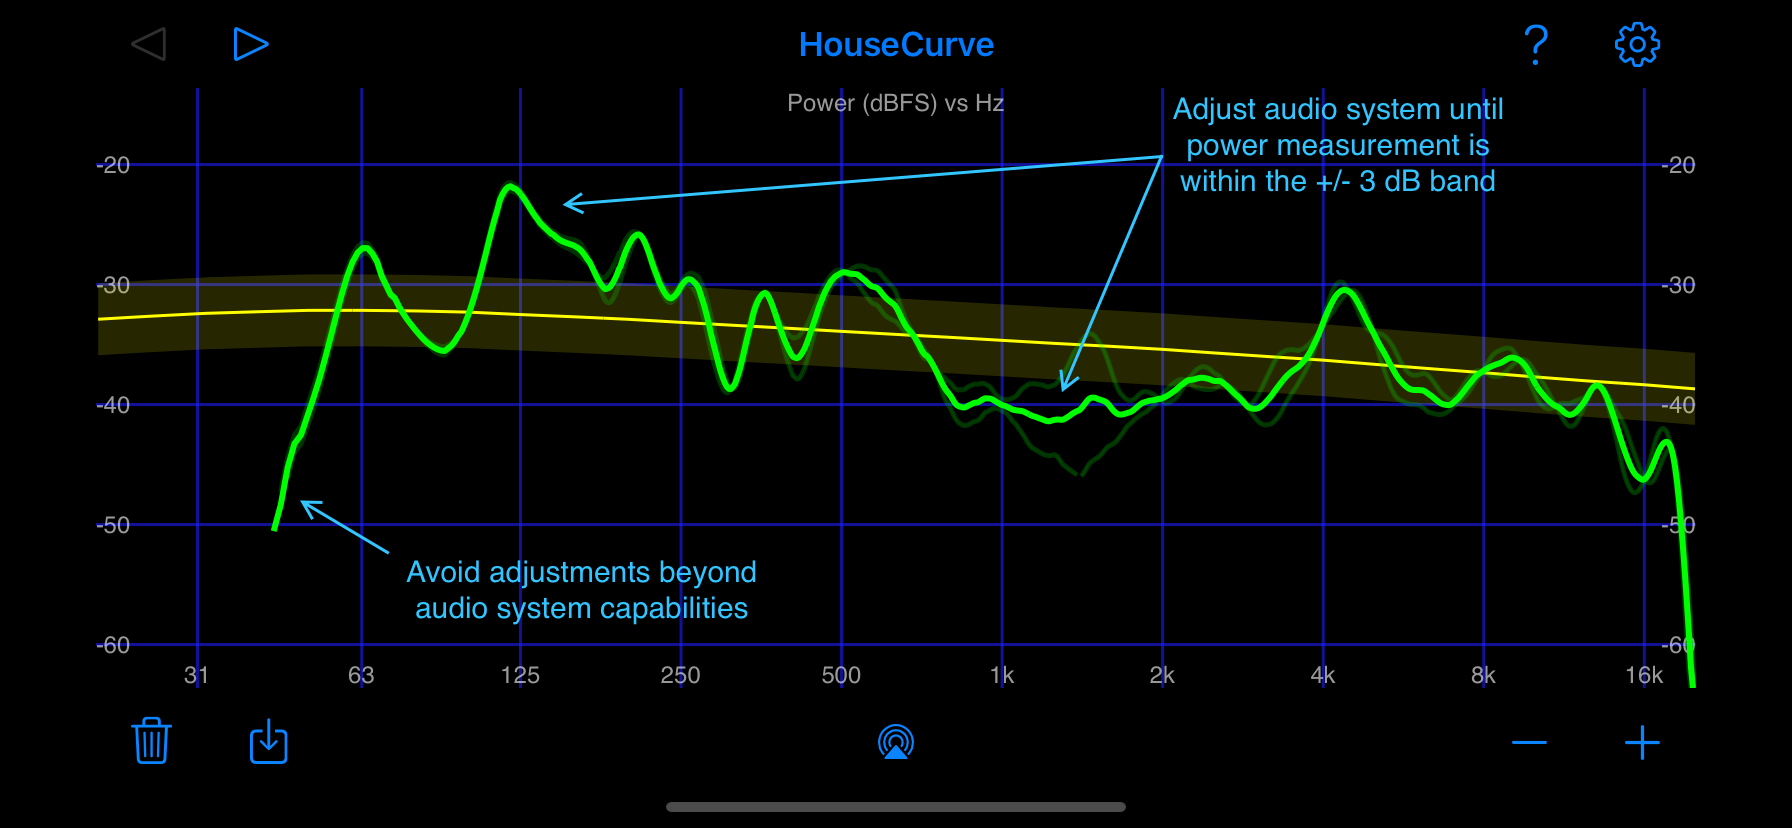
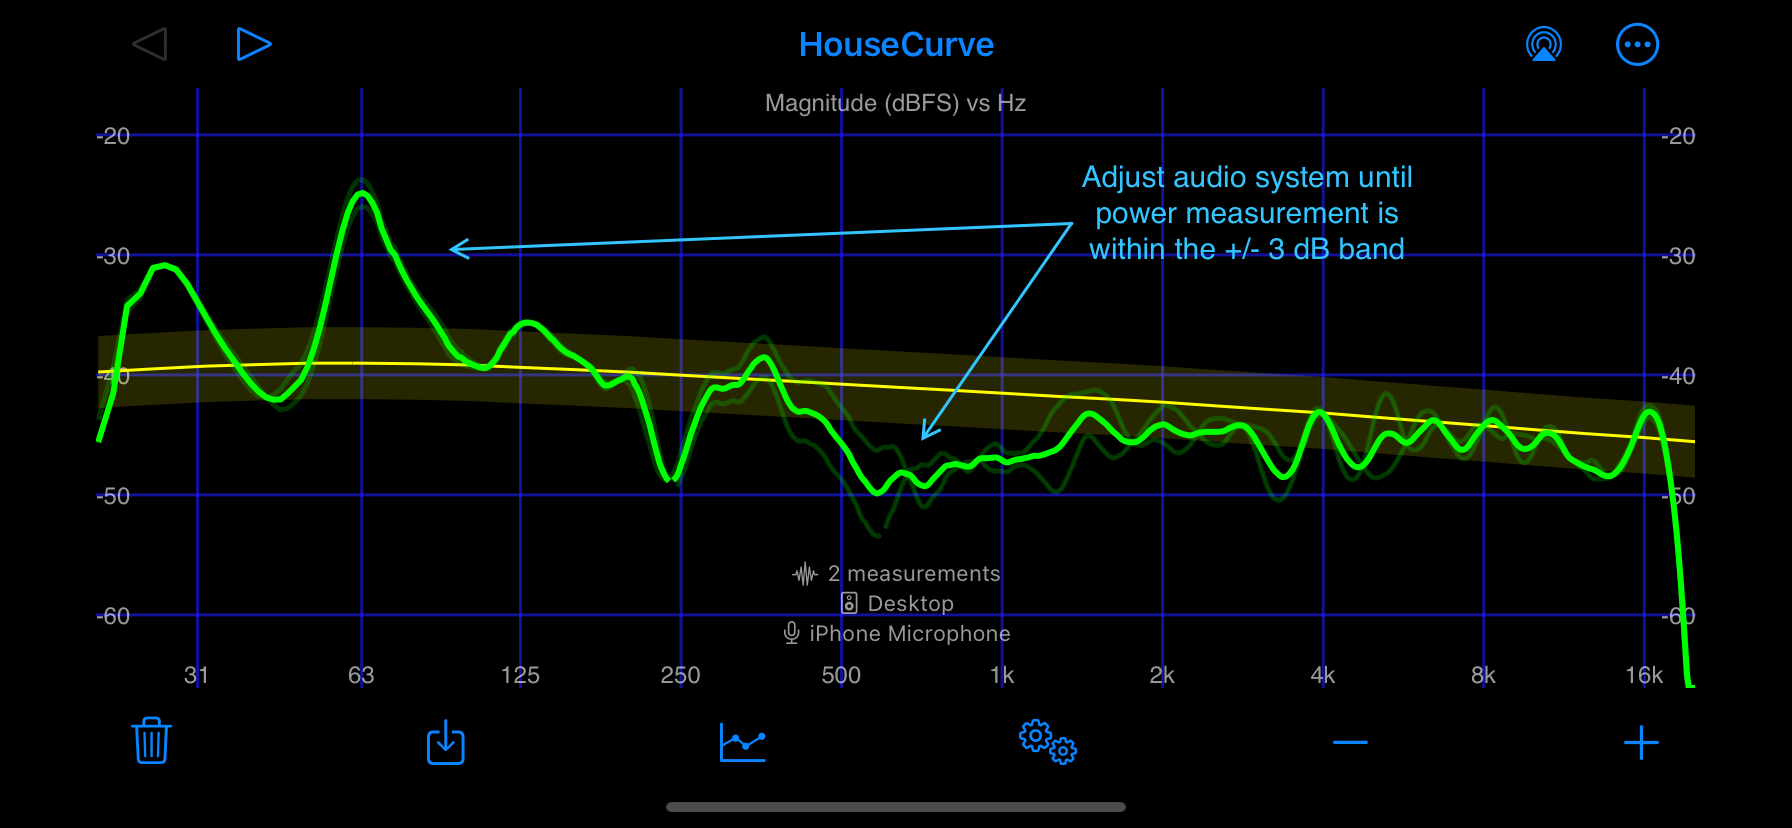
Updating tuning images (partial)

diff --git a/TUNING.md b/TUNING.md
@@ -95,7 +95,7 @@ The classic approach is to select crossover frequencies based on speaker specifi
 
 The screenshot below shows a 2.1 desktop audio system consisting of [main speakers](https://www.kantoaudio.com/powered-speakers/yu2) and a [subwoofer](https://www.kantoaudio.com/subwoofers/sub6).  The speakers were measured separately with crossovers disabled and no equalization.  The [subwoofer was measured](/USAGE.md#subwoofer-measurements) first and saved (grey), then the main speakers were measured (green).
 
-![finding crossover frequency](/assets/img/finding_crossover_frequency_kanto_yu2.png "Measure speakers separately to find best crossover frequency")
+![finding crossover frequency](/assets/img/crossover_select.png "Measure speakers separately to find best crossover frequency")
 
 The published frequency range for the main speakers is 80-20000 Hz and the subwoofer is 35-165 Hz.  Based on the specs, the overlap of these speakers is 80 - 165 Hz and the crossover frequency should be somewhere in that range.
 
